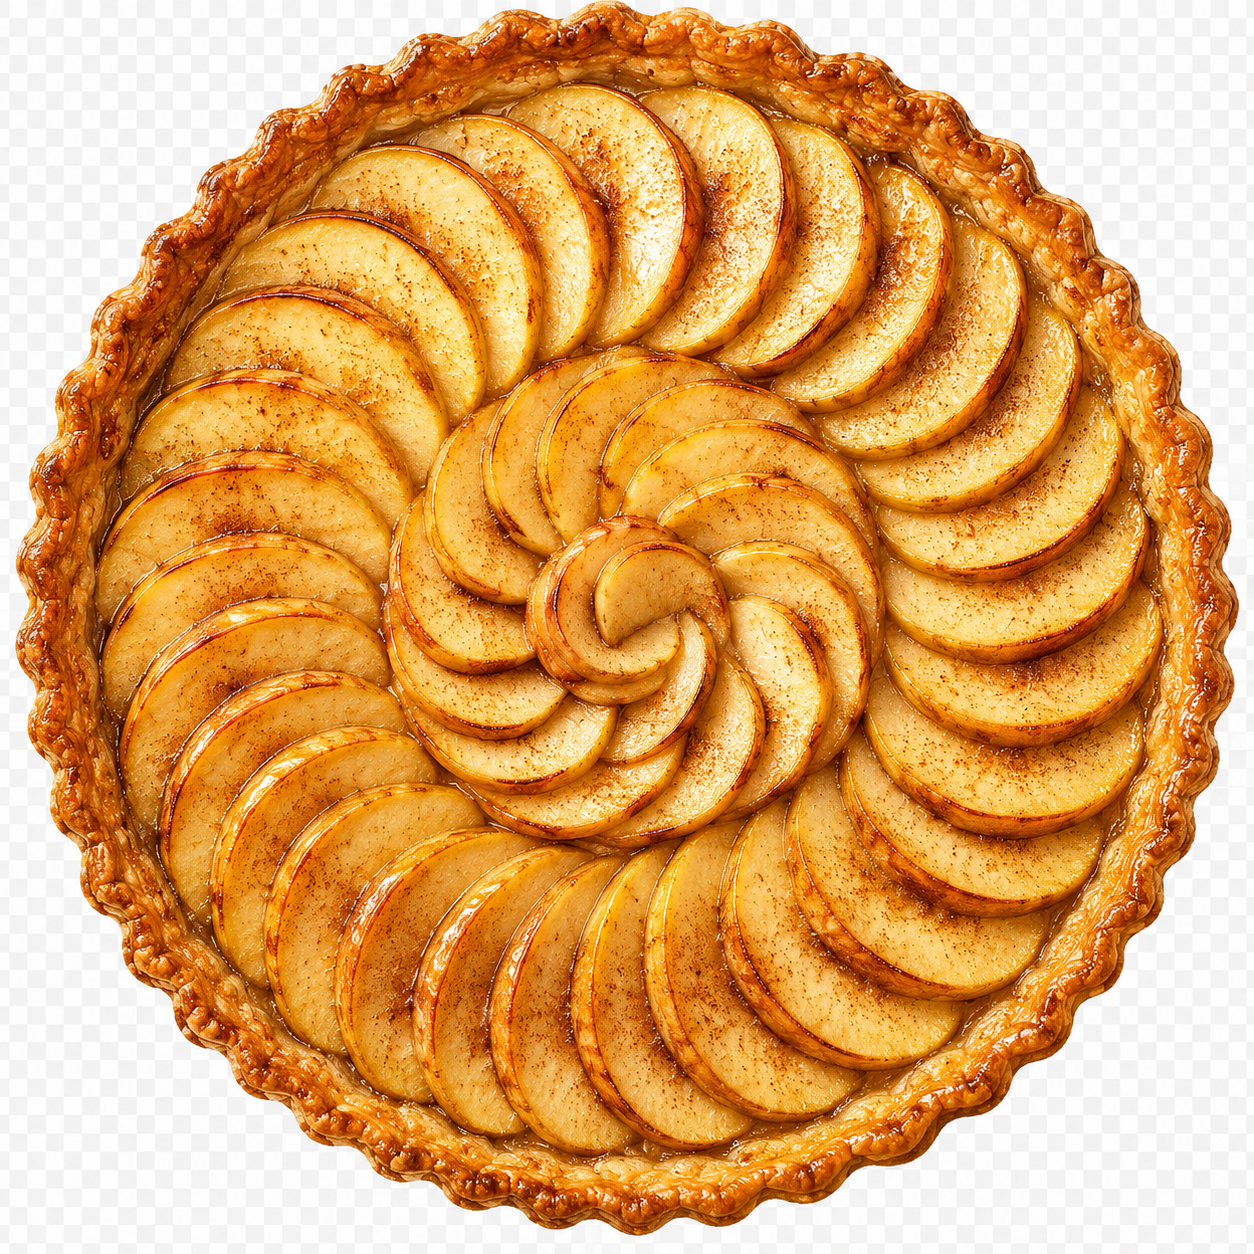
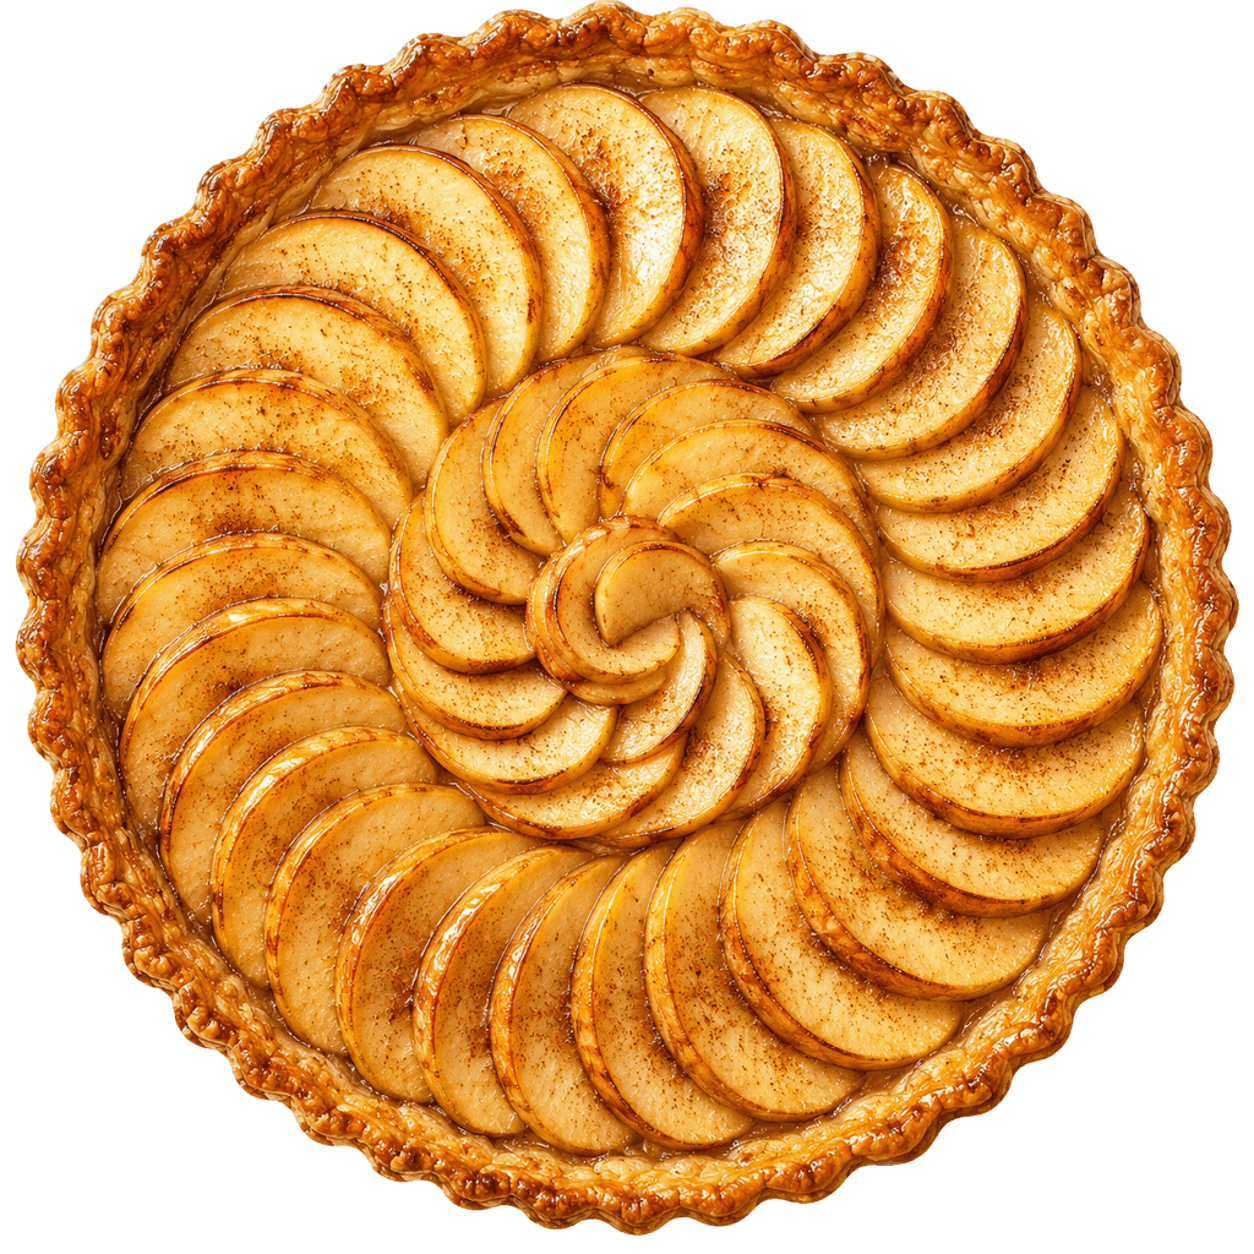
FEAT: Adição de torta

diff --git a/atelie-dos-sabores/src/components/Hero/index.tsx b/atelie-dos-sabores/src/components/Hero/index.tsx
@@ -48,7 +48,12 @@ export default function Hero() {
           <div className={styles.imagePlaceholder}>
             <div className={styles.plateRing} />
             <div className={styles.plateInner}>
-              <span className={styles.plateEmoji}>🥐</span>
+              <div className={styles.plateInner}>
+              <img
+                src="/img/torta.png"
+                alt="Salgados artesanais"
+                className={styles.plateImage}/>
+                </div>
             </div>
           </div>
 
